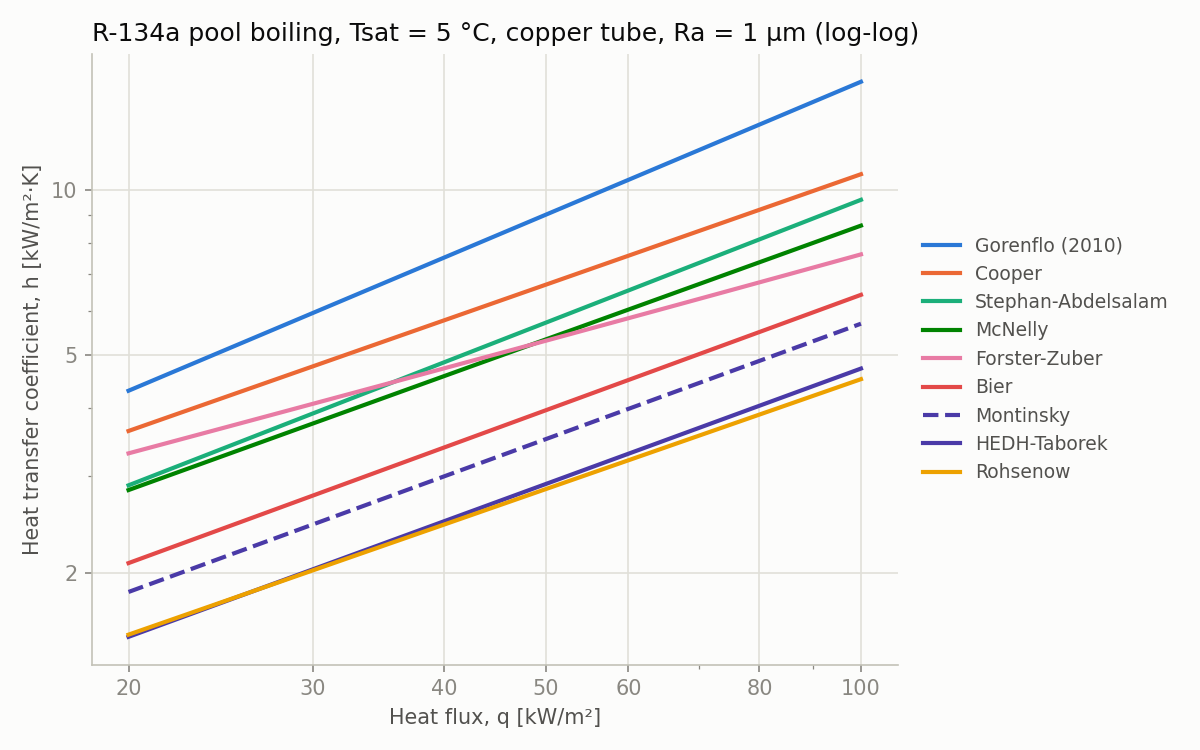
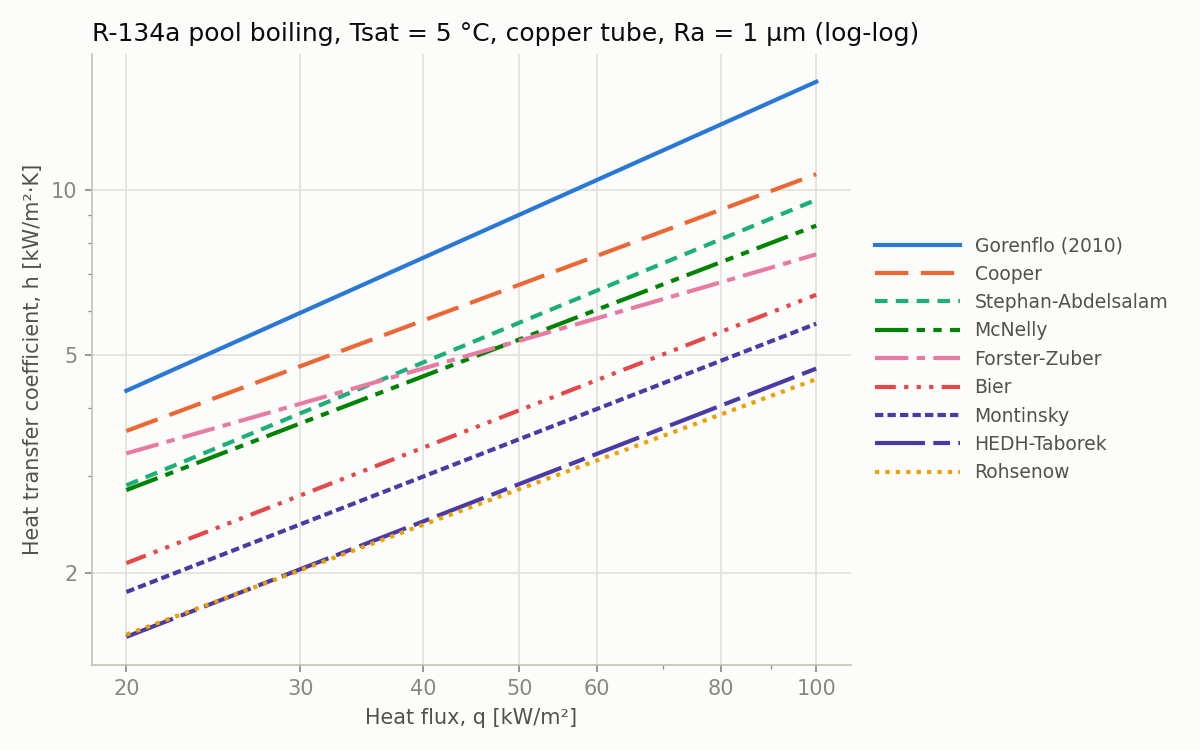
Compared the boiling correlations to each other

diff --git a/dev/compare_boiling_correlations.py b/dev/compare_boiling_correlations.py
@@ -121,18 +121,22 @@ def sweep(case, p, q_values=None, Te_values=None):
 
 
 #%% Plot style
-# Categorical slots in fixed order. Montinsky (Mostinski) and HEDH-Taborek are
-# the same family of correlation, so they share a hue and differ by line style.
+# Every correlation has its own colour AND its own line style, so the lines
+# can be told apart in greyscale print and by colour-blind readers.
+# Colours are categorical slots in fixed order; there are eight, so Montinsky
+# (Mostinski) shares HEDH-Taborek's hue as they are the same family of
+# correlation, and is distinguished by its line style.
+# Line styles are (offset, (on, off, ...)) dash patterns in points.
 style = {
-    "Gorenflo (2010)":    dict(color="#2a78d6", linestyle="-"),
-    "Cooper":             dict(color="#eb6834", linestyle="-"),
-    "Stephan-Abdelsalam": dict(color="#1baf7a", linestyle="-"),
-    "Rohsenow":           dict(color="#eda100", linestyle="-"),
-    "Forster-Zuber":      dict(color="#e87ba4", linestyle="-"),
-    "McNelly":            dict(color="#008300", linestyle="-"),
-    "HEDH-Taborek":       dict(color="#4a3aa7", linestyle="-"),
-    "Montinsky":          dict(color="#4a3aa7", linestyle="--"),
-    "Bier":               dict(color="#e34948", linestyle="-"),
+    "Gorenflo (2010)":    dict(color="#2a78d6", linestyle="-"),                       # solid
+    "Cooper":             dict(color="#eb6834", linestyle=(0, (8, 3))),               # long dash
+    "Stephan-Abdelsalam": dict(color="#1baf7a", linestyle=(0, (3, 2))),               # short dash
+    "Rohsenow":           dict(color="#eda100", linestyle=(0, (1, 1.5))),             # dotted
+    "Forster-Zuber":      dict(color="#e87ba4", linestyle=(0, (8, 2, 2, 2))),         # dash-dot
+    "McNelly":            dict(color="#008300", linestyle=(0, (8, 2, 2, 2, 2, 2))),   # dash-dot-dot
+    "HEDH-Taborek":       dict(color="#4a3aa7", linestyle=(0, (12, 2, 4, 2))),        # long-short dash
+    "Montinsky":          dict(color="#4a3aa7", linestyle=(0, (2, 1))),               # dense dash
+    "Bier":               dict(color="#e34948", linestyle=(0, (5, 2, 1, 2, 1, 2, 1, 2))),  # dash-dot-dot-dot
 }
 ink_primary, ink_secondary, ink_muted = "#0b0b0b", "#52514e", "#898781"
 grid_color, axis_color, surface = "#e1e0d9", "#c3c2b7", "#fcfcfb"
@@ -191,8 +195,9 @@ def make_plot(x, results, xlabel, title, log, path,
     for side in ("left", "bottom"):
         ax.spines[side].set_color(axis_color)
     ax.tick_params(colors=ink_muted, which="both")
+    # Long legend swatches so each dash pattern shows clearly
     legend = ax.legend(loc="center left", bbox_to_anchor=(1.01, 0.5),
-                       frameon=False, fontsize=9)
+                       frameon=False, fontsize=9, handlelength=4.5)
     for text in legend.get_texts():
         text.set_color(ink_secondary)
     fig.tight_layout()

diff --git a/dev/check_gorenflo.py b/dev/check_gorenflo.py
@@ -350,12 +350,7 @@ else:
 if _casrn_used == "7440-59-7":
     # Helium h0 is given at q0 = 1 kW/m^2 (Table H2.1, footnote i)
     q0 = 1E3
-    
 
-#for my class example, use water relations
-n = 0.9 - 0.3*Pr**0.15
-Fp = 1.73*Pr**0.27 + (6.1 + 0.68/(1.0 - Pr))*Pr*Pr
-    
 #%% Wall correction: surface roughness x wall-material effusivity
 F_wr = (Ra/Ra0)**(2.0/15.0)
 F_wm = (eff/eff_Cu)**0.5
